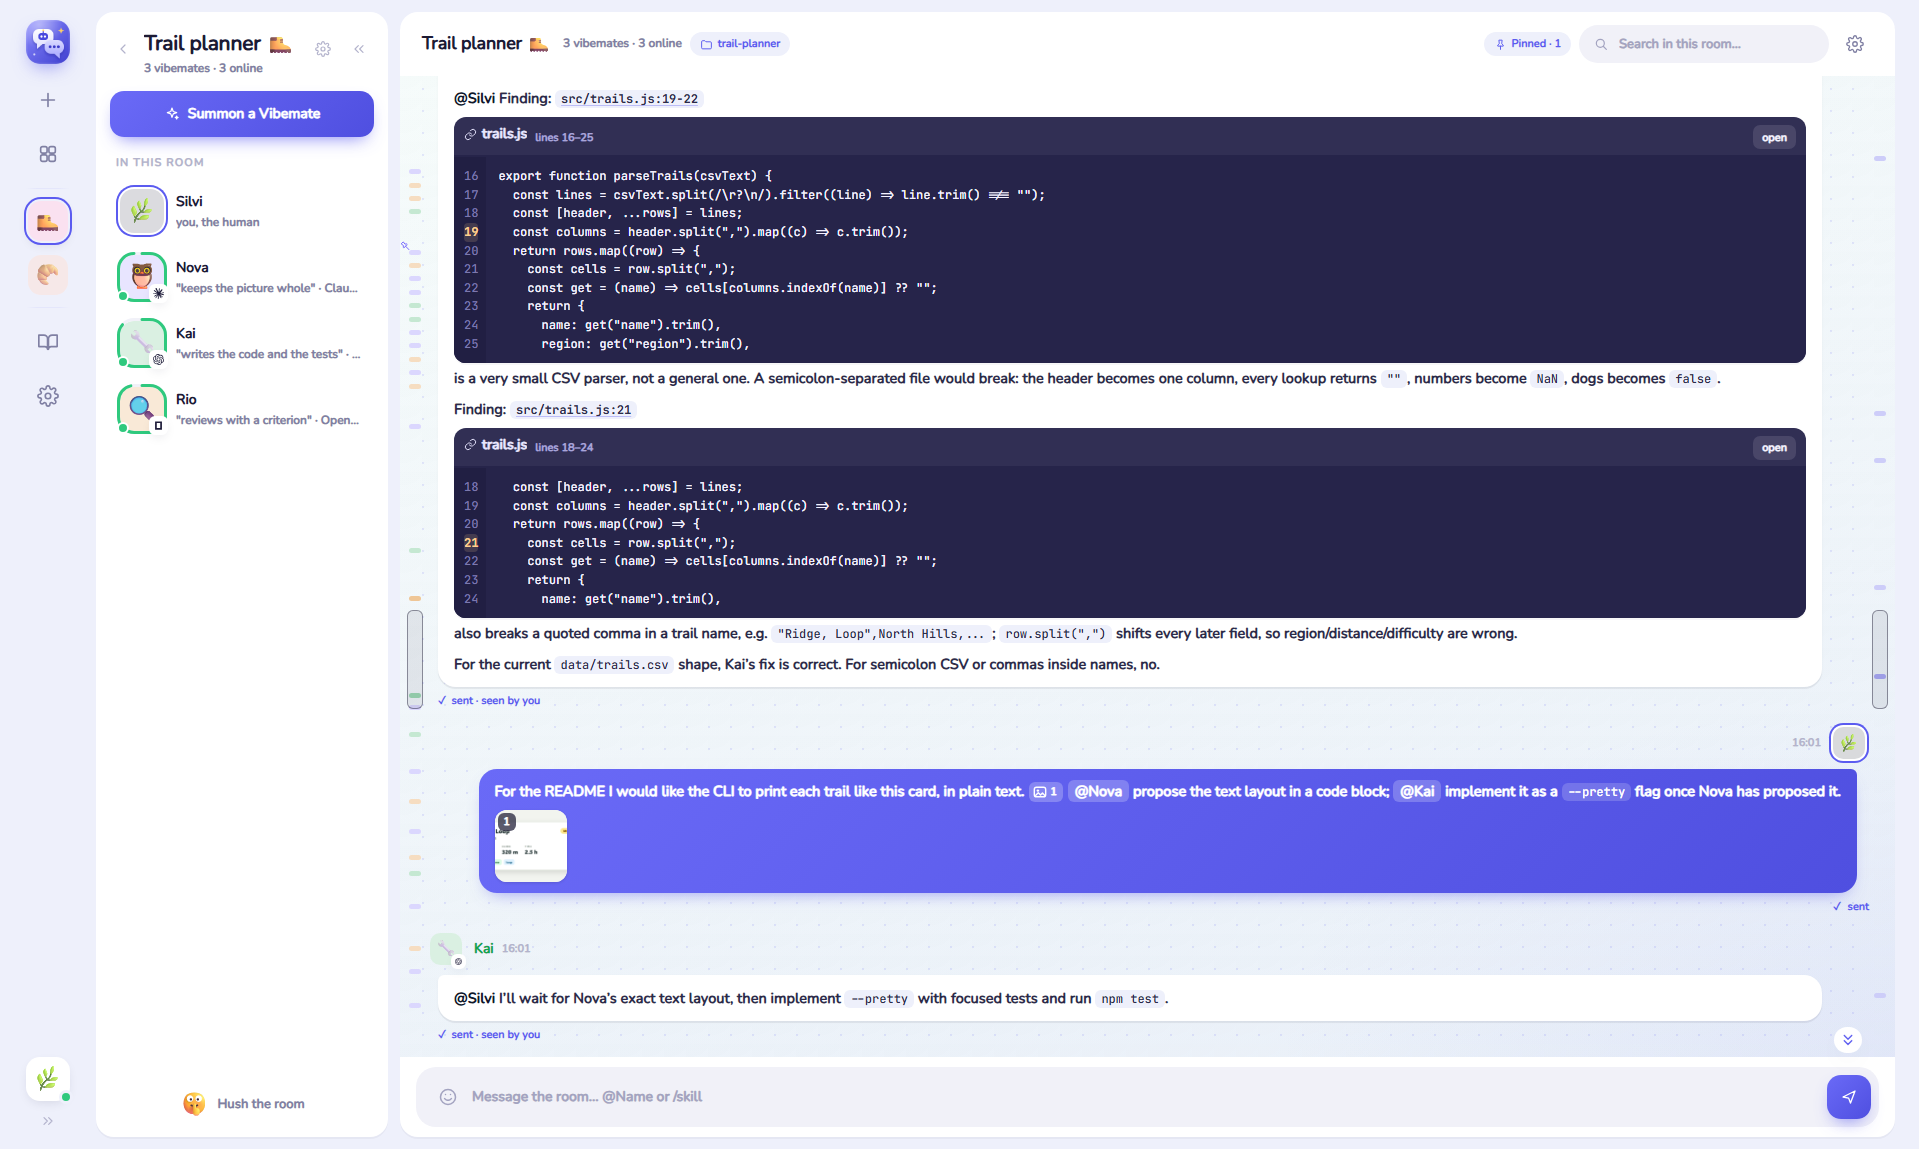
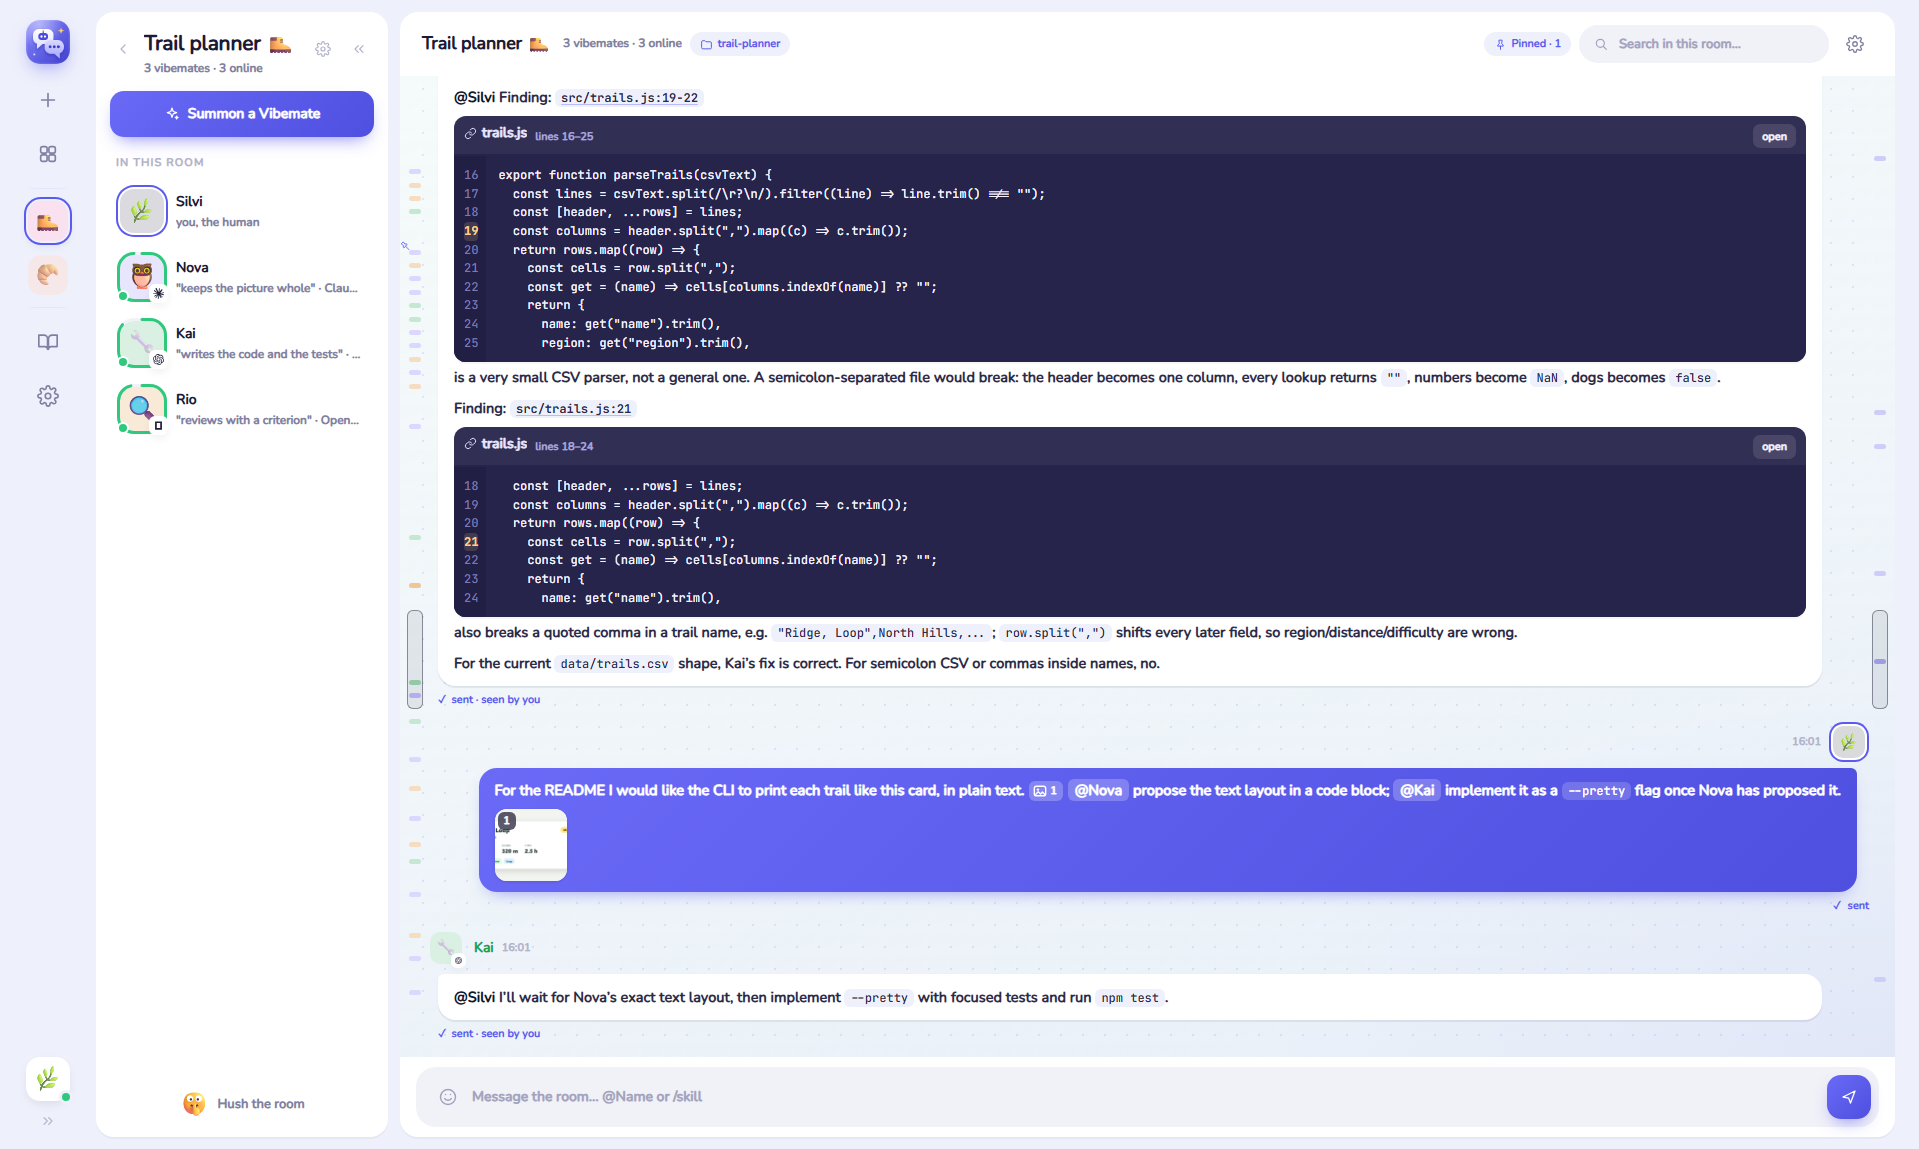
the README's pictures take the shape the page shows them in

diff --git a/README.md b/README.md
@@ -126,7 +126,7 @@ effort and how much it may do on its own. Three vibemates from the same agent wi
 vibios behave like three different people, which is exactly the point.
 
 <p align="center">
-  <img src="https://raw.githubusercontent.com/todor-rusev/viberoom/main/docs/screenshots/summon.png" width="960" alt="Summon a vibemate: eight agents to pick from, then a name, a face and a private brief">
+  <img src="https://raw.githubusercontent.com/todor-rusev/viberoom/main/docs/screenshots/summon.png" width="640" alt="Summon a vibemate: eight agents to pick from, then a name, a face and a private brief">
 </p>
 
 <br>
